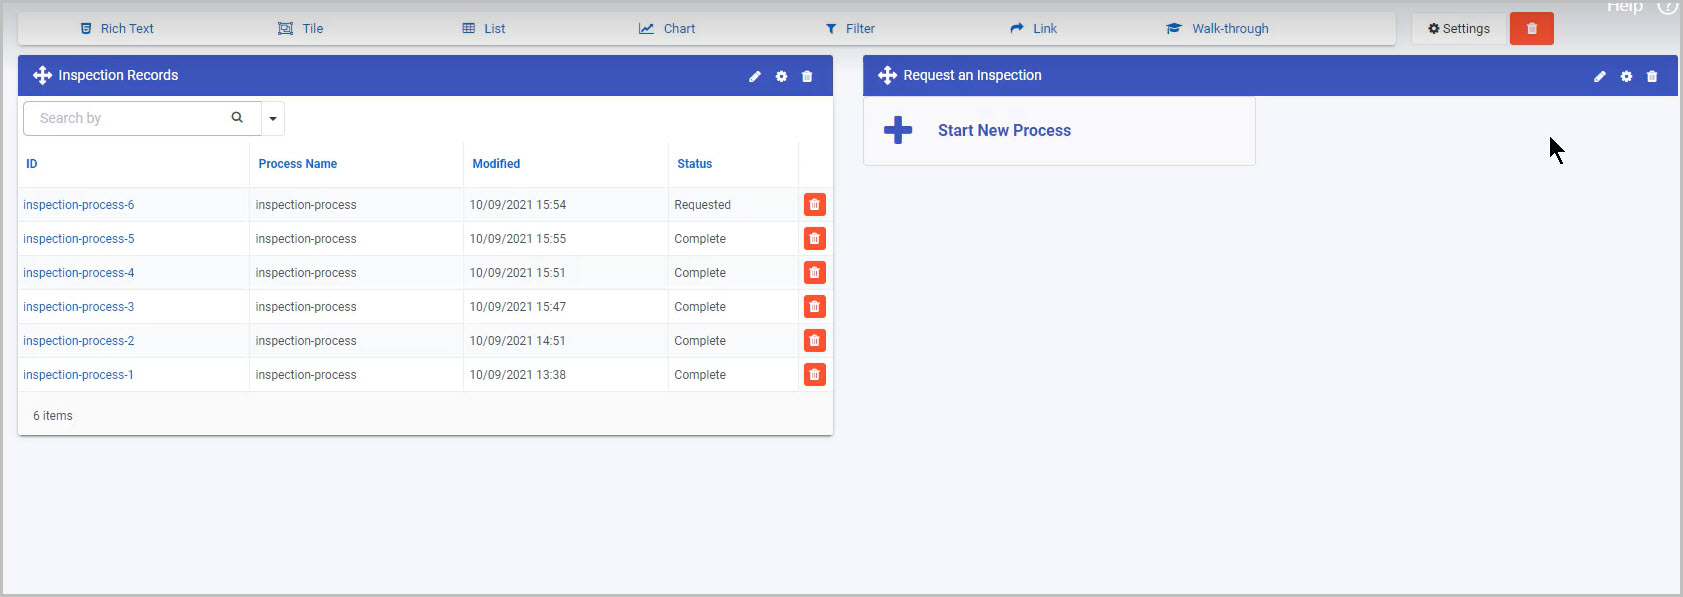
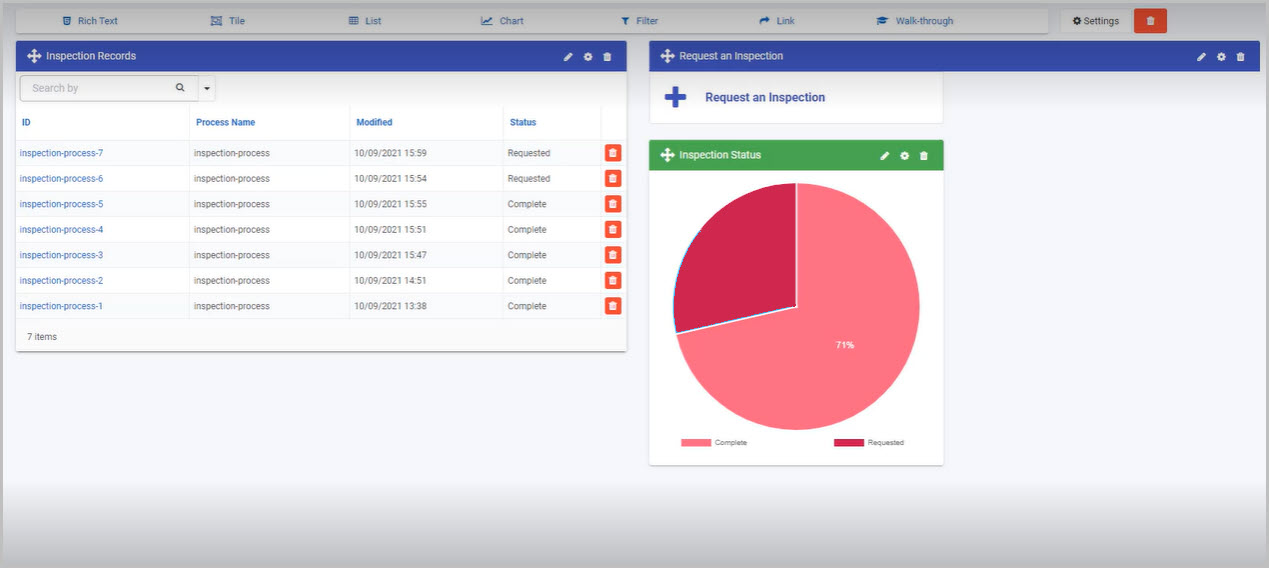
Added pie chart into dashboard of the inspection process page

diff --git a/content/docs/examples/inspection/dashboard.md b/content/docs/examples/inspection/dashboard.md
@@ -8,7 +8,7 @@ typora-root-url: ..\..\..\..\static
 
 Kianda **dashboards** deliver a convenient way to provide insights into how your business processes are performing. Kianda dashboards offer easy reporting, permissions management, quick build, condition-based filtering and many more features.
 
-From lists to tiles, filter and charts, dashboards allow you to build full digital experiences to monitor your real-time processes in a few minutes.
+From lists to tiles, filter and charts, dashboards allow you to build full digital experiences to monitor your real-time processes in a few minutes. To learn more about dashboards go to [Dashboard pages](/docs/platform/pages/).
 
 ## Creating a Dashboard
 
@@ -32,7 +32,7 @@ In this example we will use a List widget to keep track of all instances of our 
 
    ![Home](/images/dashboard-widget-menu-list.jpg)
 
-2. Change the **Title** to **Inspection records**.
+2. In the **Add widget** dialog box, change the **Title** to **Inspection records**.
 
 3. List widget automatically shows all records of all our processes in the system. We need to select the **Inspection Process**. Click on the pen icon on the **Inspection Records**.
 
@@ -58,9 +58,9 @@ In this example we will use the Link widget in our dashboard. By clicking on it,
 
    ![Add link in dashboard](/images/dashboard-widget-menu-link.jpg)
 
-2. Change the **Title** to **Request an Inspection**.
+2. In the **Add widget** dialog box, change the **Title** to **Request an Inspection**.
 
-3. Click on **OK** in the **Edit Link** dialog box.
+3. Click on **OK** in the **Add widget** dialog box.
 
 4. We need to activate which process to start when clicking on the link, click on the pen icon to edit the **Link widget** 
 
@@ -74,13 +74,37 @@ In this example we will use the Link widget in our dashboard. By clicking on it,
 
 8. Click on **OK** in the **Edit buttons links Request an Inspection** dialog box.
 
+### Creating a Pie Chart widget - Pie chart
+
+In this example we will use the Chart widget in our dashboard. We will create a pie chart from the available options, representing the status of our inspection processes. To learn more about Chart widgets go to [Chart widget](/docs/platform/pages/chart/).
+
+1. On the dashboard creation page, click on **Chart** in the top menu.
+
+   ![Add link in dashboard](/images/dashboard-widget-menu-chart.jpg)
+
+2. In the **Add widget** dialog box, change the **Title** to **Inspection Status**.
+
+3. Click on **OK** in the **Add widget** dialog box.
+
+4. We need to attach a process to the pie chart, click on the pen icon on the chart widget to edit it.
+
+5. Select **Inspection process** in the **Business process** option.
+
+6. Select **Pie chart** from the **Chart type** option.
+
+7. Select **Status** field from the **Label field** option.
+
+8. Click on **OK** in the **Edit chart** dialog box.
+
+   ![List dialog box](/images/examples-chart-editbox.jpg)
+
 9. In the top right-hand menu click on ![Link edit](/images/dashboard-save-button.jpg) to save your dashboard.
 
    ![Link edit](/images/dashboard-menu.jpg)
 
-### Inspection Process Dashboard Summary
+## Inspection Process Dashboard Summary
 
 We have now created the dashboard for our Inspection process. Using the List widget, we can see all details of all instances of each inspection process that was created. By picking the **Status** field to show in our **List** widget, we can see which processes are **Completed** and **Requested**. With the **Link** widget we are allowing the users of the dash board to click on the link to start an **Inspection process.** Take a look at the finished dashboard for the **Inspection Process** below.
 
-![Link edit](/images/examples-inspection-dashboard.jpg)
+![Finished Dashboard](/images/examples-inspection-dashboard.jpg)
 
